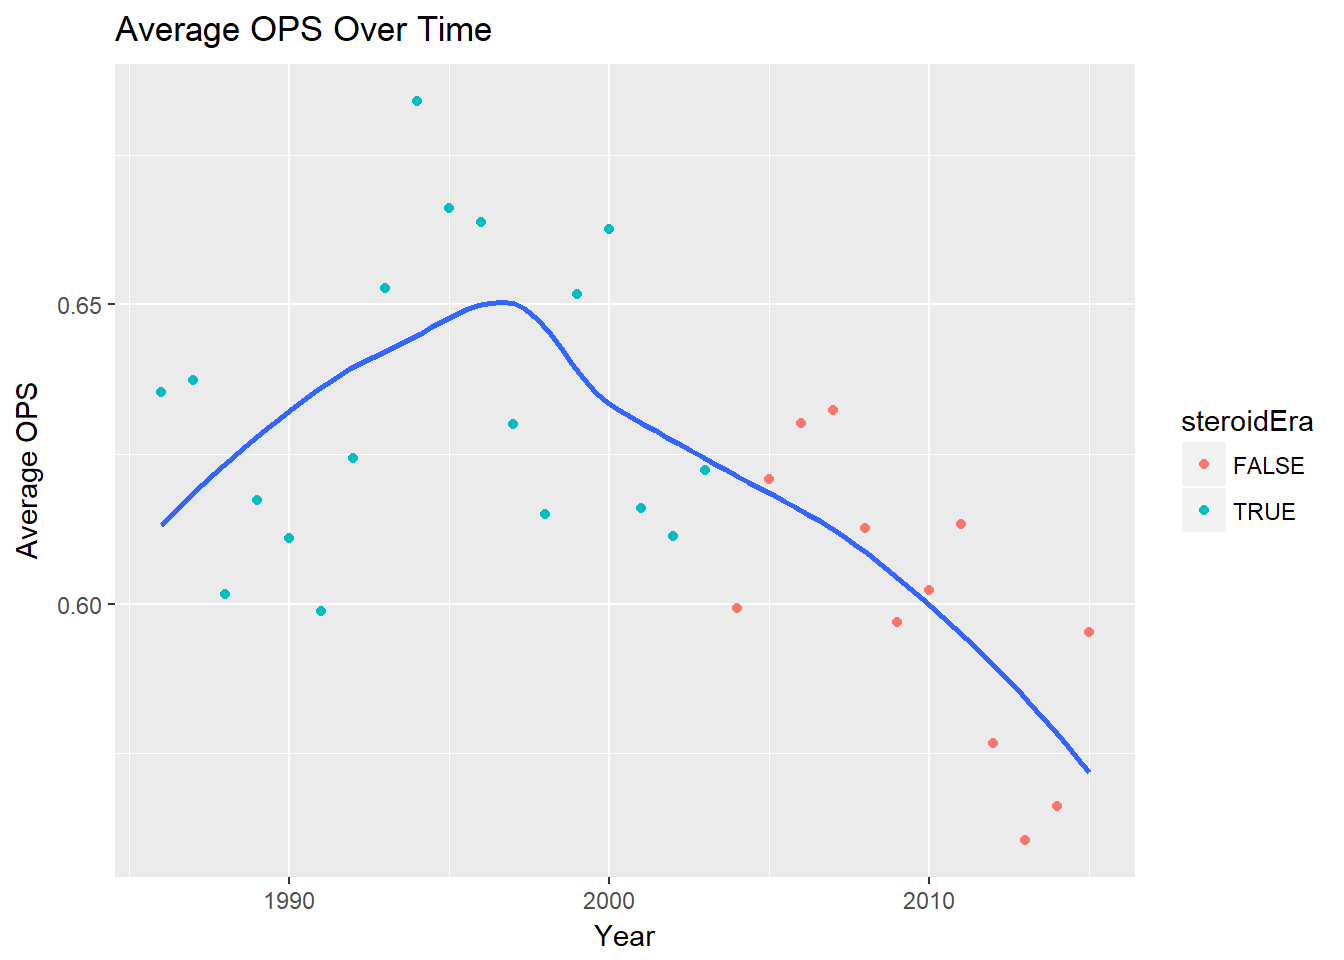
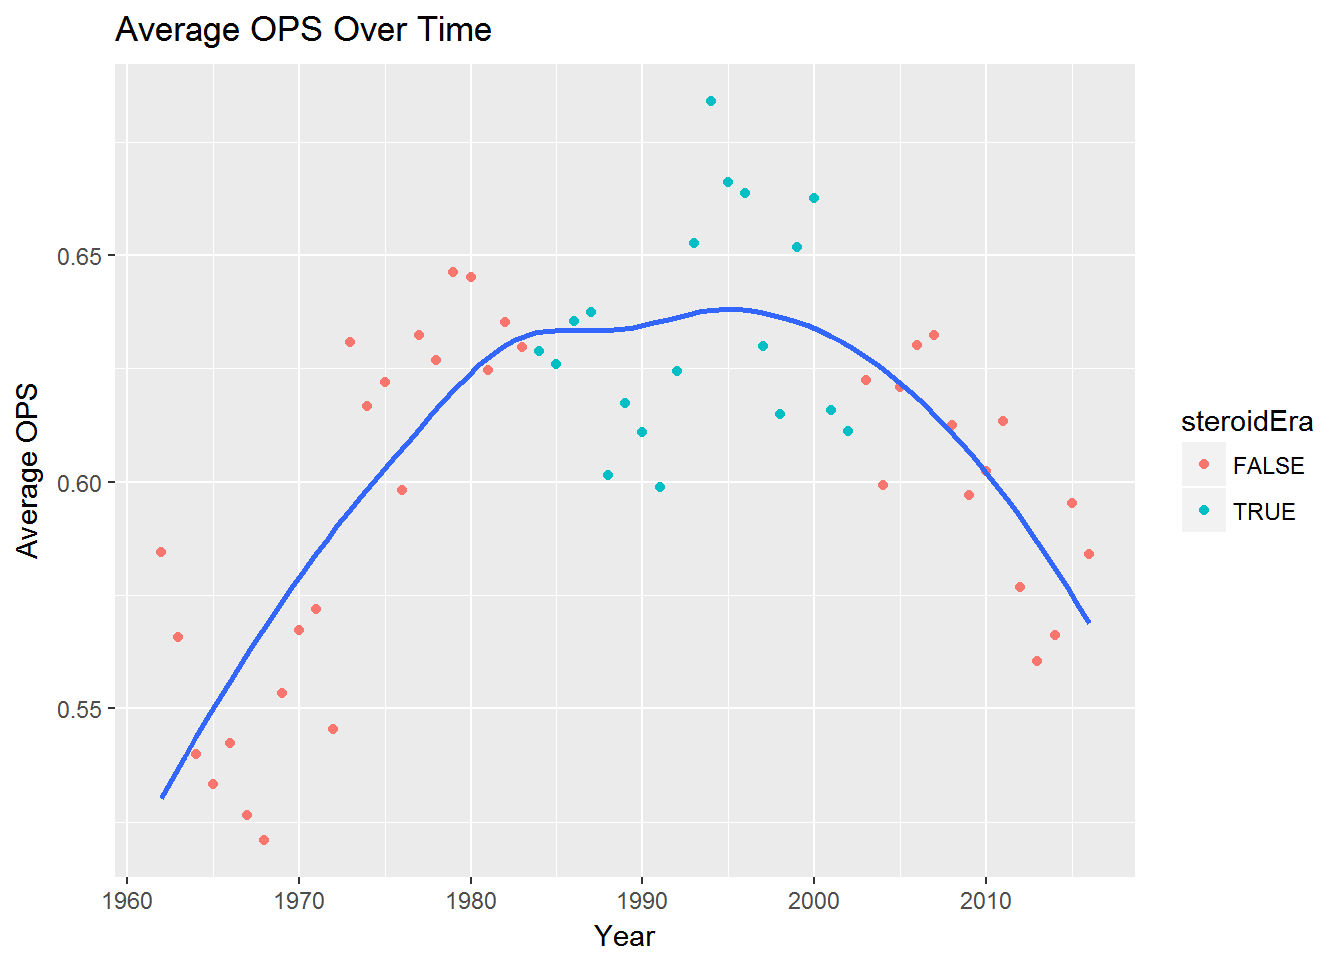
remove repeated text from index, delete proccessing page, add years 1961 and up onto graphs, add markdown emphasis to analysis, add opts_chunck

diff --git a/analysis.html b/analysis.html
@@ -179,9 +179,6 @@ $(document).ready(function () {
   <a href="index.html">Home</a>
 </li>
 <li>
-  <a href="processing.html">Processing</a>
-</li>
-<li>
   <a href="analysis.html">Analysis</a>
 </li>
 <li>
@@ -204,36 +201,42 @@ $(document).ready(function () {
 </div>
 
 
-<pre class="r"><code>batting2 = filter(batting, batting$yearID &gt; 1985) %&gt;% select(yearID,H,X2B,X3B,HR,AB,BB,HBP,SF,) %&gt;% na.omit() %&gt;% mutate(TB = H+2*X2B+(3*X3B)+(4*HR)) %&gt;% mutate(SLG = TB/AB) %&gt;% na.omit() %&gt;% mutate(OBP = (H + BB + HBP)/(AB + BB + SF + HBP)) %&gt;% mutate(OPS = SLG + OBP) %&gt;% mutate(steroidEra = !(yearID&gt;2003))
+<pre class="r"><code>batting2 = filter(batting, batting$yearID &gt; 1961) %&gt;% select(yearID,H,X2B,X3B,HR,AB,BB,HBP,SF) %&gt;% na.omit() %&gt;% mutate(TB = H+2*X2B+(3*X3B)+(4*HR)) %&gt;% mutate(SLG = TB/AB) %&gt;% na.omit() %&gt;% mutate(OBP = (H + BB + HBP)/(AB + BB + SF + HBP)) %&gt;% mutate(OPS = SLG + OBP) %&gt;% 
+  mutate(steroidEra = (yearID&gt;1983 &amp; yearID&lt;2003))
 
 table = batting2 %&gt;% group_by(yearID,steroidEra) %&gt;% summarise(avgOPS = mean(OPS))
 
 ggplot(table, aes(x =yearID, y = avgOPS)) + geom_point(aes(x =yearID, y = avgOPS ,col=steroidEra)) + geom_smooth(se=FALSE) + ggtitle(&quot;Average OPS Over Time&quot;) + xlab(&quot;Year&quot;) + ylab(&quot;Average OPS&quot;)</code></pre>
-<pre><code>## `geom_smooth()` using method = &#39;loess&#39;</code></pre>
 <p><img src="analysis_files/figure-html/unnamed-chunk-2-1.png" width="672" /></p>
-<p>We can see that average OPS increases during the 90’s and then decreases.</p>
-<pre class="r"><code>pitching2 = filter(pitching, pitching$yearID &gt; 1985) %&gt;% select(yearID,ERA) %&gt;% na.omit %&gt;% mutate(steroidEra = !(yearID&gt;2003))
+<div id="we-can-see-that-average-ops-increases-steadily-during-the-60s-and-70s-increasing-moderately-still-through-80s-plateu-around-2000-then-decreases-steadily-after." class="section level3">
+<h3>We can see that average OPS increases steadily during the 60’s and 70’s, increasing moderately still through 80’s, plateu around 2000, then decreases steadily after.</h3>
+<hr />
+<pre class="r"><code>pitching2 = filter(pitching, pitching$yearID &gt; 1961)%&gt;%
+  select(yearID,ERA) %&gt;% na.omit %&gt;%
+  mutate(steroidEra = (yearID&gt;1983 &amp; yearID&lt;2003))
 table2 = pitching2 %&gt;% group_by(yearID,steroidEra) %&gt;% summarise(avgERA = mean(ERA))
 ggplot(table2, aes(x =yearID, y = avgERA)) + geom_point(aes(col = steroidEra)) + geom_smooth(se=FALSE) + ggtitle(&quot;Average ERA Over Time&quot;) + xlab(&quot;Year&quot;) + ylab(&quot;Average ERA&quot;)  + labs(fill = &quot;Steroid Era&quot;)</code></pre>
-<pre><code>## `geom_smooth()` using method = &#39;loess&#39;</code></pre>
 <p><img src="analysis_files/figure-html/unnamed-chunk-3-1.png" width="672" /></p>
-<p>We can see that average ERA increaes until 2000 and the decreases.</p>
-<p>The lower the ERA, the better the pitcher is considered. The higher the OPS, the better the batter is considered.</p>
-<p>We can see ERA increase when OPS did, and then both begin to decrease around the end of the steriod era.</p>
-<p>It appears that steriods did give an advantage to batters over pithers during the steriod era.</p>
-<pre class="r"><code>batsal = left_join(batting,salaries, by=&quot;playerID&quot;)</code></pre>
-<pre><code>## Warning: Column `playerID` joining factors with different levels, coercing
-## to character vector</code></pre>
-<pre class="r"><code>batsal2 = filter(batsal, batsal$yearID.x &gt; 1985) %&gt;% select(yearID.x,H,X2B,X3B,HR,AB,BB,HBP,SF,salary,teamID.x) %&gt;% na.omit() %&gt;% mutate(TB = H+2*X2B+(3*X3B)+(4*HR)) %&gt;% mutate(SLG = TB/AB) %&gt;% na.omit() %&gt;% mutate(OBP = (H + BB + HBP)/(AB + BB + SF + HBP)) %&gt;% mutate(OPS = SLG + OBP)
+</div>
+<div id="we-can-see-that-average-era-decreases-until-the-1980s-then-increases-drasticly-up-till-the-early-2000s-then-begins-a-steady-decrease." class="section level3">
+<h3>We can see that average ERA decreases until the 1980’s, then increases drasticly up till the early 2000’s, then begins a steady decrease.</h3>
+<hr />
+<p><em><strong>From the 60’s up till the steriod era, we see an increase in average OPS and decrease in average ERA, signifying that preformance was increasing for both pitchers and hitters.</strong></em></p>
+<p><em><strong>During the steriod era, ERA increase when OPS did, and then both begin to decrease around the end of the steriod era.</strong></em></p>
+<p><em><strong>It appears that steriods did give an advantage to batters over pithers during the steriod era.</strong></em></p>
+<hr />
+<pre class="r"><code>batsal = left_join(batting,salaries, by=&quot;playerID&quot;)
+batsal2 = filter(batsal, batsal$yearID.x &gt; 1985) %&gt;% select(yearID.x,H,X2B,X3B,HR,AB,BB,HBP,SF,salary,teamID.x) %&gt;% na.omit() %&gt;% mutate(TB = H+2*X2B+(3*X3B)+(4*HR)) %&gt;% mutate(SLG = TB/AB) %&gt;% na.omit() %&gt;% mutate(OBP = (H + BB + HBP)/(AB + BB + SF + HBP)) %&gt;% mutate(OPS = SLG + OBP)
 
 table4 = batsal2 %&gt;% group_by(yearID.x) %&gt;% summarise(avgOPS = mean(OPS), meansalprop=mean(salary)/10000000)
 
 
 ggplot() + geom_smooth(data=table4, aes(x=yearID.x,y=avgOPS),se=FALSE) + geom_smooth(data=table4, aes(x=yearID.x,y=meansalprop),se=FALSE) + xlab(&quot;Year&quot;) + ylab(&quot;AverageOPS, Salary&quot;)</code></pre>
-<pre><code>## `geom_smooth()` using method = &#39;loess&#39;
-## `geom_smooth()` using method = &#39;loess&#39;</code></pre>
 <p><img src="analysis_files/figure-html/unnamed-chunk-4-1.png" width="672" /></p>
-<p>The bottom line shows that salaries were increasing quicker when OPS was increasing.</p>
+</div>
+<div id="the-bottom-line-shows-that-salaries-were-increasing-quicker-when-ops-was-increasing." class="section level3">
+<h3>The bottom line shows that salaries were increasing quicker when OPS was increasing.</h3>
+</div>
 
 
 

diff --git a/index.html b/index.html
@@ -179,9 +179,6 @@ $(document).ready(function () {
   <a href="index.html">Home</a>
 </li>
 <li>
-  <a href="processing.html">Processing</a>
-</li>
-<li>
   <a href="analysis.html">Analysis</a>
 </li>
 <li>
@@ -204,14 +201,16 @@ $(document).ready(function () {
 </div>
 
 
-<p>Project collaborators: Matthew Sterkel, Mitch Borgert, and William Zamora.</p>
-<p>Overseen by: Dr. Robin Donatello</p>
+<p><em>Project collaborators: Matthew Sterkel, Mitch Borgert, and William Zamora.</em></p>
+<p><em>Overseen by: Dr. Robin Donatello</em></p>
 <hr />
 <p>This site is an exploratory data analysis of baseball data.</p>
 <p>Data used in this analysis can be found at <a href="http://www.seanlahman.com/baseball-archive/statistics/">Lahman’s Baseball Database</a></p>
-<p>The purpose of our research is to examine how steroids effected baseball during the steroid era. More specifically, we want to see if hitters did not actually gain an advantage by being on steroids because the pitchers were also on steroids. We will do this by comparing the OPS of the hitters with the ERA of the pitchers. The OPS is the sum of a statistic of how often a hitter reaches base and a statistic that measures the batting productivity of a hitter. The ERA is the mean of the earned runs given up by a pitcher. By looking at these statistics for players before and after the steroid era, we can see wether hitters did not acutally gain an advantage.</p>
 <p>On this project site we investigate the following question:</p>
 <p>During the steroid era of baseball (roughly 1988-2003), we want to see if hitters did not actually gain an advantage by being on steroids because the pitchers were also on steroids. We will do this by comparing the OPS of the hitters with the ERA of the pitchers. The OPS is the sum of a statistic of how often a hitter reaches base and a statistic that measures the batting productivity of a hitter. The ERA is the mean of the earned runs given up by a pitcher. By looking at these statistics for players before and after the steroid era, we can see whether hitters did not actually gain an advantage.</p>
+<p>It is important to note that:</p>
+<p><strong>The lower the ERA, the better the pitcher is considered.</strong></p>
+<p><strong>The higher the OPS, the better the batter is considered.</strong></p>
 
 
 

diff --git a/README.html b/README.html
@@ -179,9 +179,6 @@ $(document).ready(function () {
   <a href="index.html">Home</a>
 </li>
 <li>
-  <a href="processing.html">Processing</a>
-</li>
-<li>
   <a href="analysis.html">Analysis</a>
 </li>
 <li>

diff --git a/contact.html b/contact.html
@@ -179,9 +179,6 @@ $(document).ready(function () {
   <a href="index.html">Home</a>
 </li>
 <li>
-  <a href="processing.html">Processing</a>
-</li>
-<li>
   <a href="analysis.html">Analysis</a>
 </li>
 <li>

diff --git a/data.html b/data.html
@@ -179,9 +179,6 @@ $(document).ready(function () {
   <a href="index.html">Home</a>
 </li>
 <li>
-  <a href="processing.html">Processing</a>
-</li>
-<li>
   <a href="analysis.html">Analysis</a>
 </li>
 <li>

diff --git a/hypothesis.html b/hypothesis.html
@@ -179,9 +179,6 @@ $(document).ready(function () {
   <a href="index.html">Home</a>
 </li>
 <li>
-  <a href="processing.html">Processing</a>
-</li>
-<li>
   <a href="analysis.html">Analysis</a>
 </li>
 <li>

diff --git a/rq.html b/rq.html
@@ -179,9 +179,6 @@ $(document).ready(function () {
   <a href="index.html">Home</a>
 </li>
 <li>
-  <a href="processing.html">Processing</a>
-</li>
-<li>
   <a href="analysis.html">Analysis</a>
 </li>
 <li>
